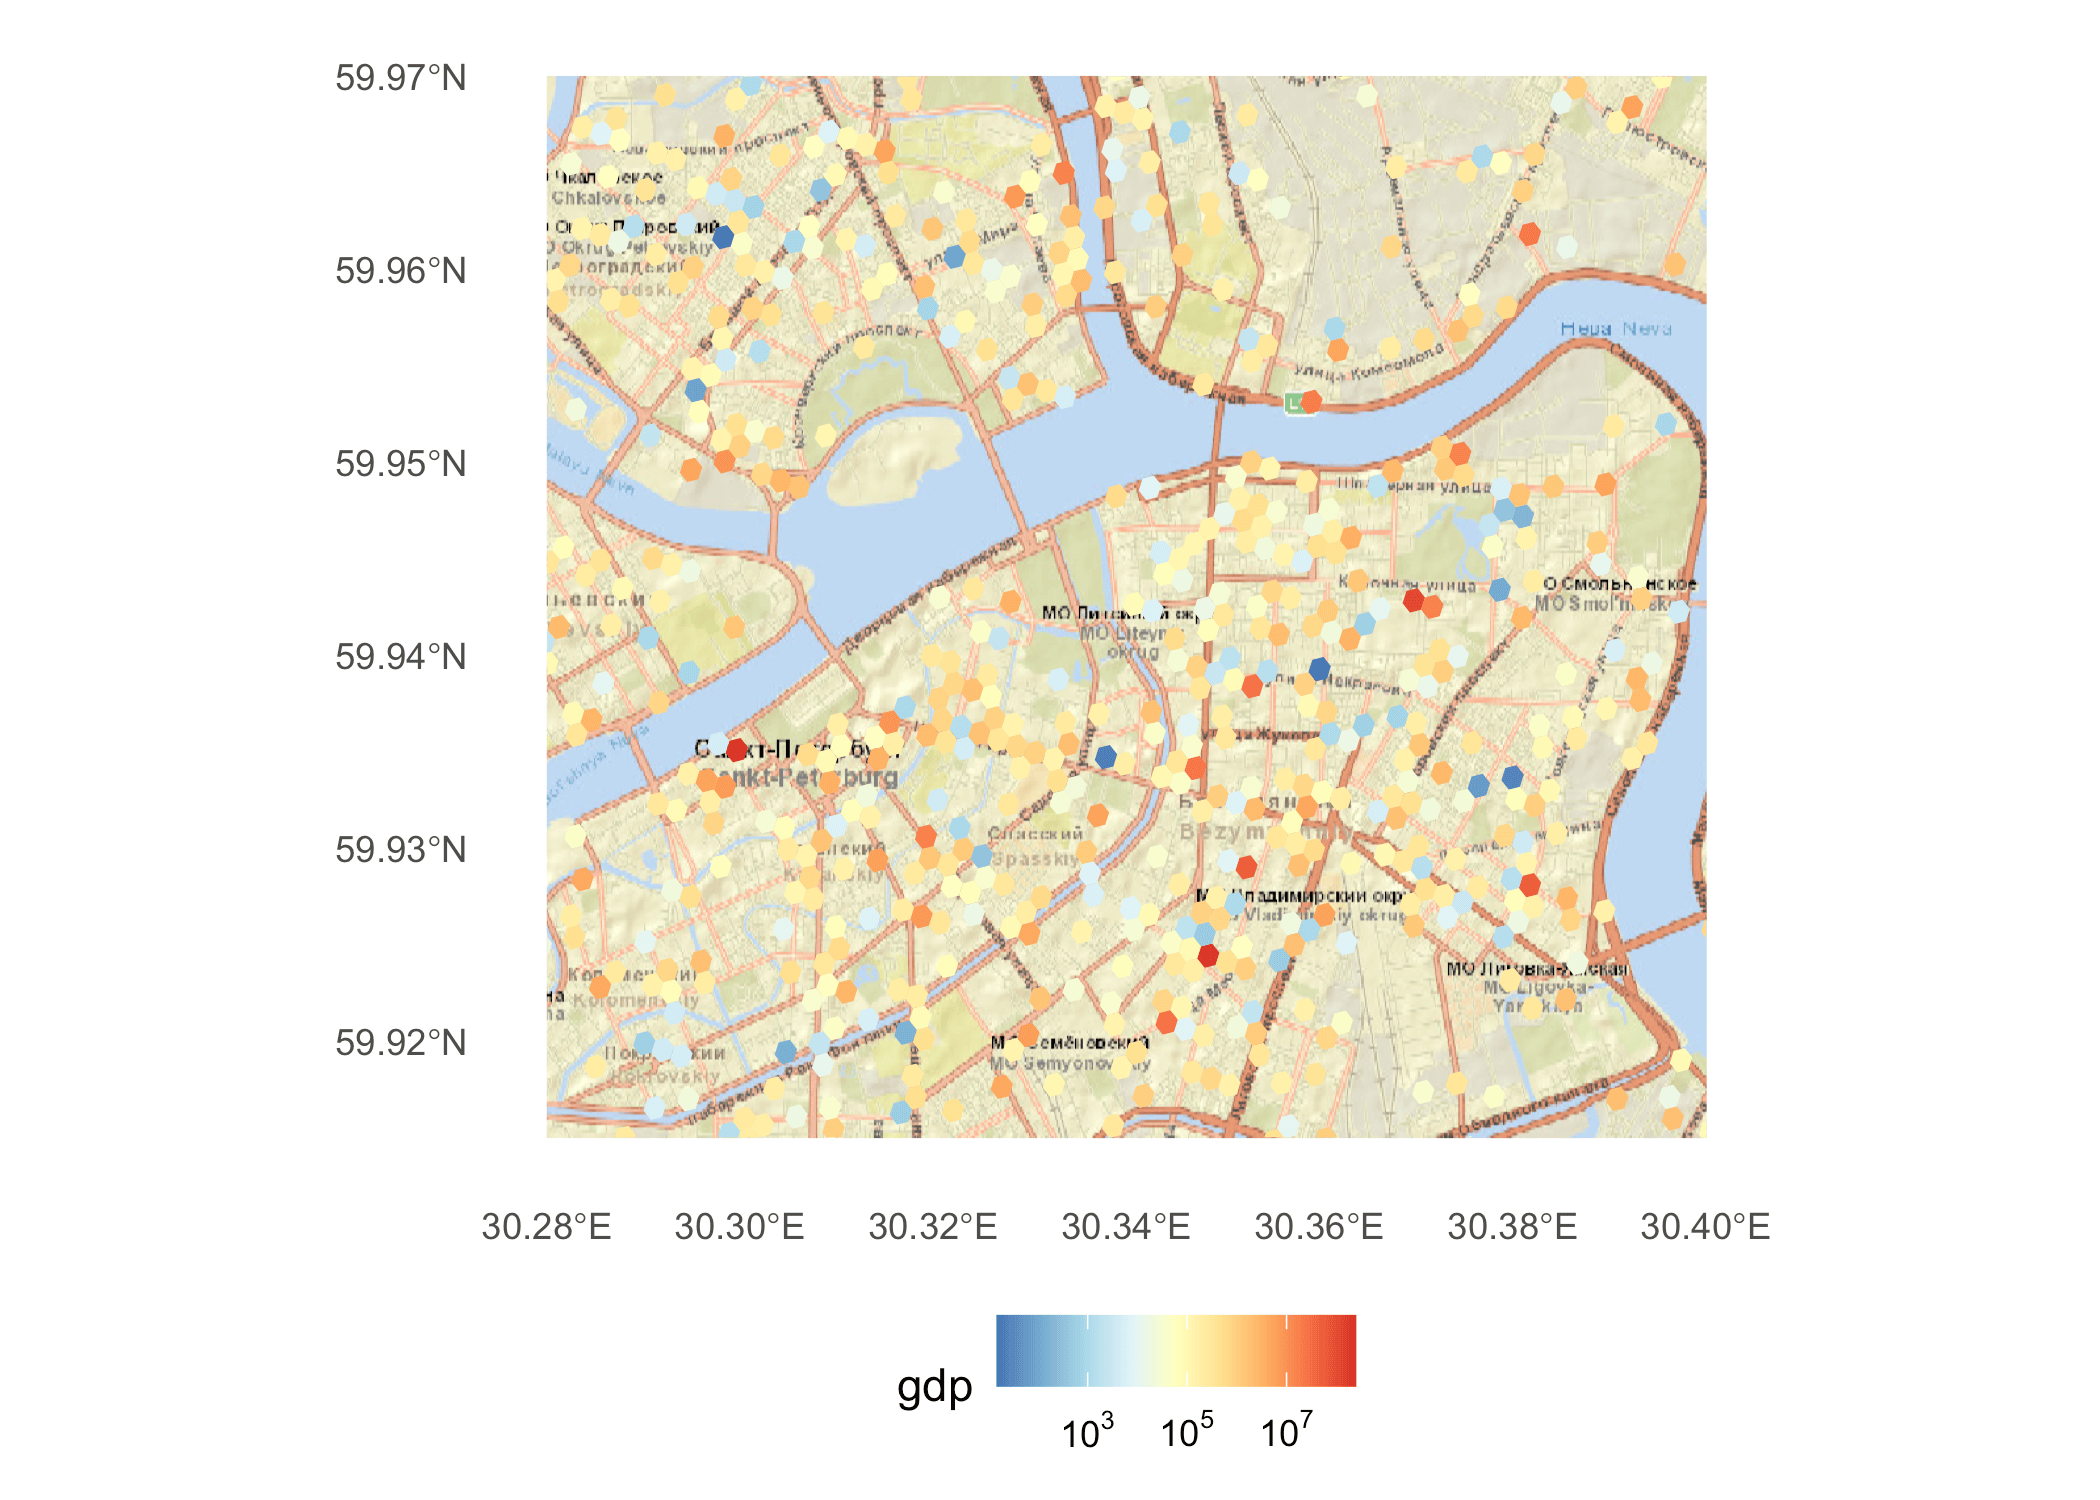
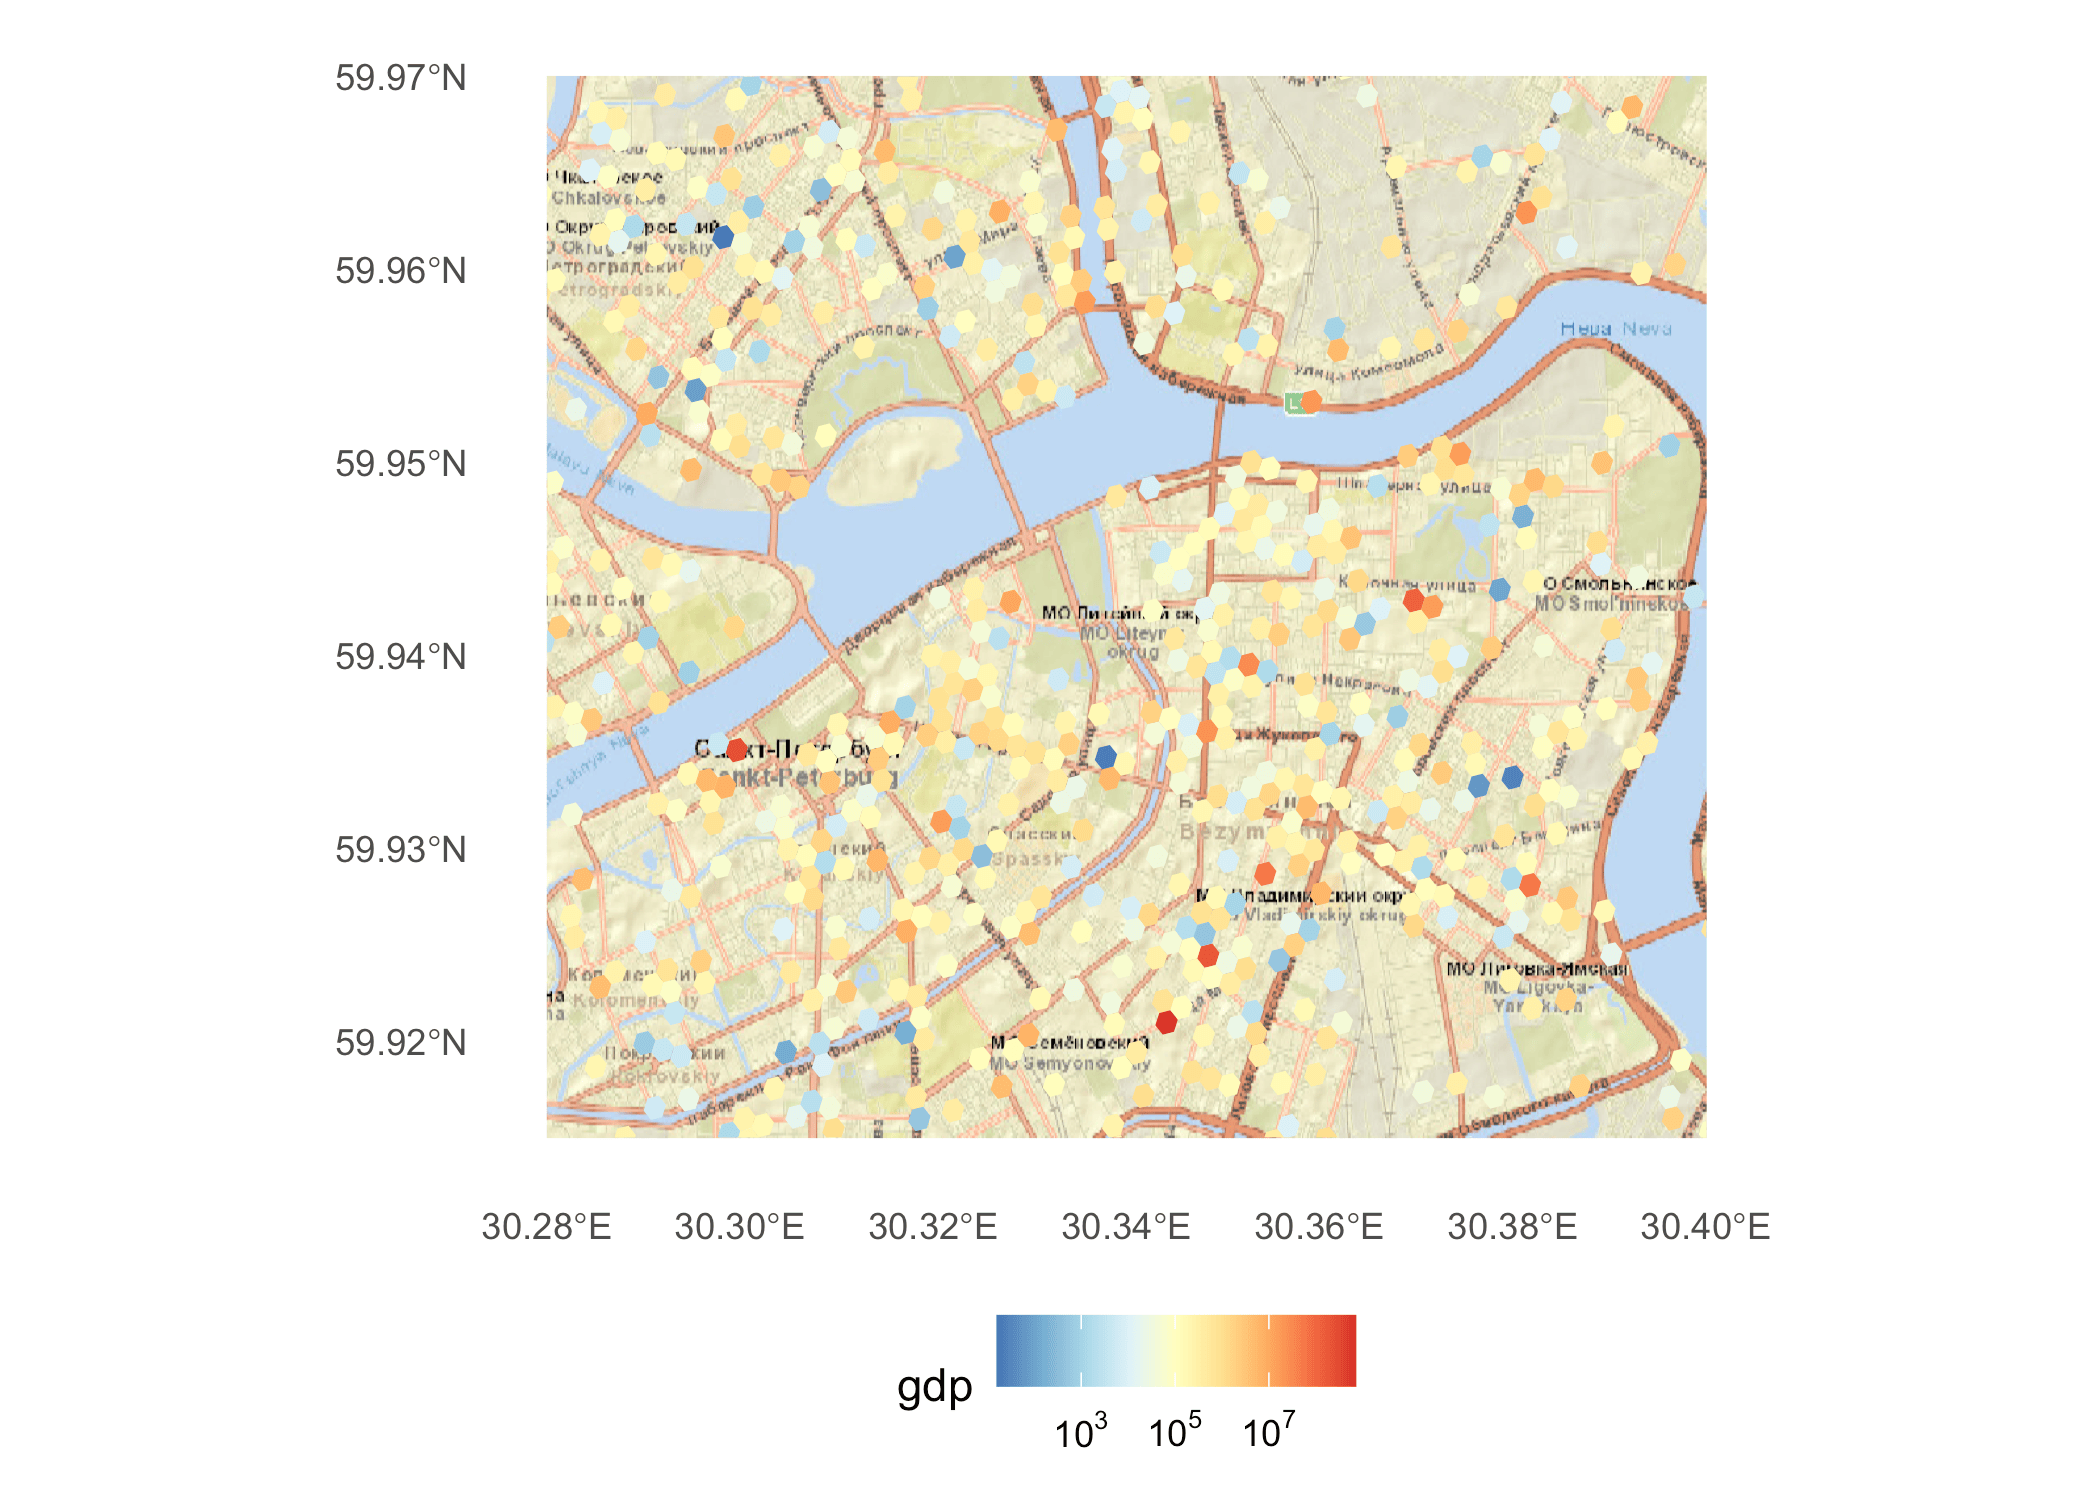
Update spatialization use case
Spatialization use case now is based on v.2.0.0 data.

diff --git a/use_cases/spatialization.md b/use_cases/spatialization.md
@@ -62,13 +62,13 @@ library(stringr)
 library(sf)
 ```
 
-    ## Linking to GEOS 3.12.2, GDAL 3.9.2, PROJ 9.4.1; sf_use_s2() is TRUE
+    ## Linking to GEOS 3.13.0, GDAL 3.8.5, PROJ 9.5.1; sf_use_s2() is TRUE
 
 ``` r
 library(terra)
 ```
 
-    ## terra 1.7.78
+    ## terra 1.8.50
 
     ## 
     ## Attaching package: 'terra'
@@ -136,7 +136,7 @@ available at a fine level of detail for this year.
 ``` r
 RFSD <- open_dataset("local/path/to/RFSD")
 scan_builder <- RFSD$NewScan()
-scan_builder$Filter(Expression$field_ref("year") = 2015)
+scan_builder$Filter(Expression$field_ref("year") == 2015)
 scan_builder$Project(cols = c("inn", "ogrn", "region", "year", "eligible", "filed", "imputed", "financial", "outlier", "line_2110", "line_4121", "geocoding_quality", "lon", "lat"))
 scanner <- scan_builder$Finish()
 financials <- as.data.table(scanner$ToTable())
@@ -144,8 +144,8 @@ gc()
 
 # Rename variables
 setnames(financials, c("line_2110", "line_4121"),
-					 c("revenue", "materials"),
-		skip_absent = T)
+						c("revenue", "materials"),
+						skip_absent = T)
 
 # Reverse sign for negative-only variables
 financials[, materials := -materials]
@@ -153,7 +153,7 @@ financials[, materials := -materials]
 
 # Filtering
 
-Next, we engage in filtering, keeping only non-financial firms (i.e. no
+Next, we engage in filtering, keeping only non-financial firms (i.e. no
 banks, insurers, or brokers) filing non-anomalous statements. Since GDP
 is the sum of value added across industries, we also calculate the value
 added of each firm, defined simply as revenue minus materials.
@@ -168,18 +168,18 @@ financials[revenue > 0 & materials > 0 & (revenue - materials) > 0, va := revenu
 
 # Remove firms with negative value added
 financials <- financials[va >  0]
-uniqueN(financials$inn) # 136429 firms
+uniqueN(financials$inn) # 137805 firms
 ```
 
-    ## [1] 136429
+    ## [1] 137805
 
 ``` r
 # Remove firms with low geocoding quality
 financials <- financials[geocoding_quality %in% c("house", "street")]
-uniqueN(financials$inn) # 122616 firms
+uniqueN(financials$inn) # 122822 firms
 ```
 
-    ## [1] 122616
+    ## [1] 122822
 
 # Aggregation
 
@@ -341,8 +341,9 @@ assess the benefit of the fine grid provided by the RFSD by juxtaposing
 Kummu et al. \[[6](https://doi.org/10.1038/sdata.2018.4)\]
 spatialization with our spatialization. We will obtain the raster data
 from Kummu et al. for 2015 from
-[Dryad](https://doi.org/10.5061/dryad.dk1j0) (February 13, 2020 version),
-cut it to Russia’s extent, and convert to 2015 Rubles, as the RFSD data.
+[Dryad](https://doi.org/10.5061/dryad.dk1j0) (February 13, 2020
+version), cut it to Russia’s extent, and convert to 2015 Rubles, as the
+RFSD data.
 
 ``` r
 # All-Russia boundary
